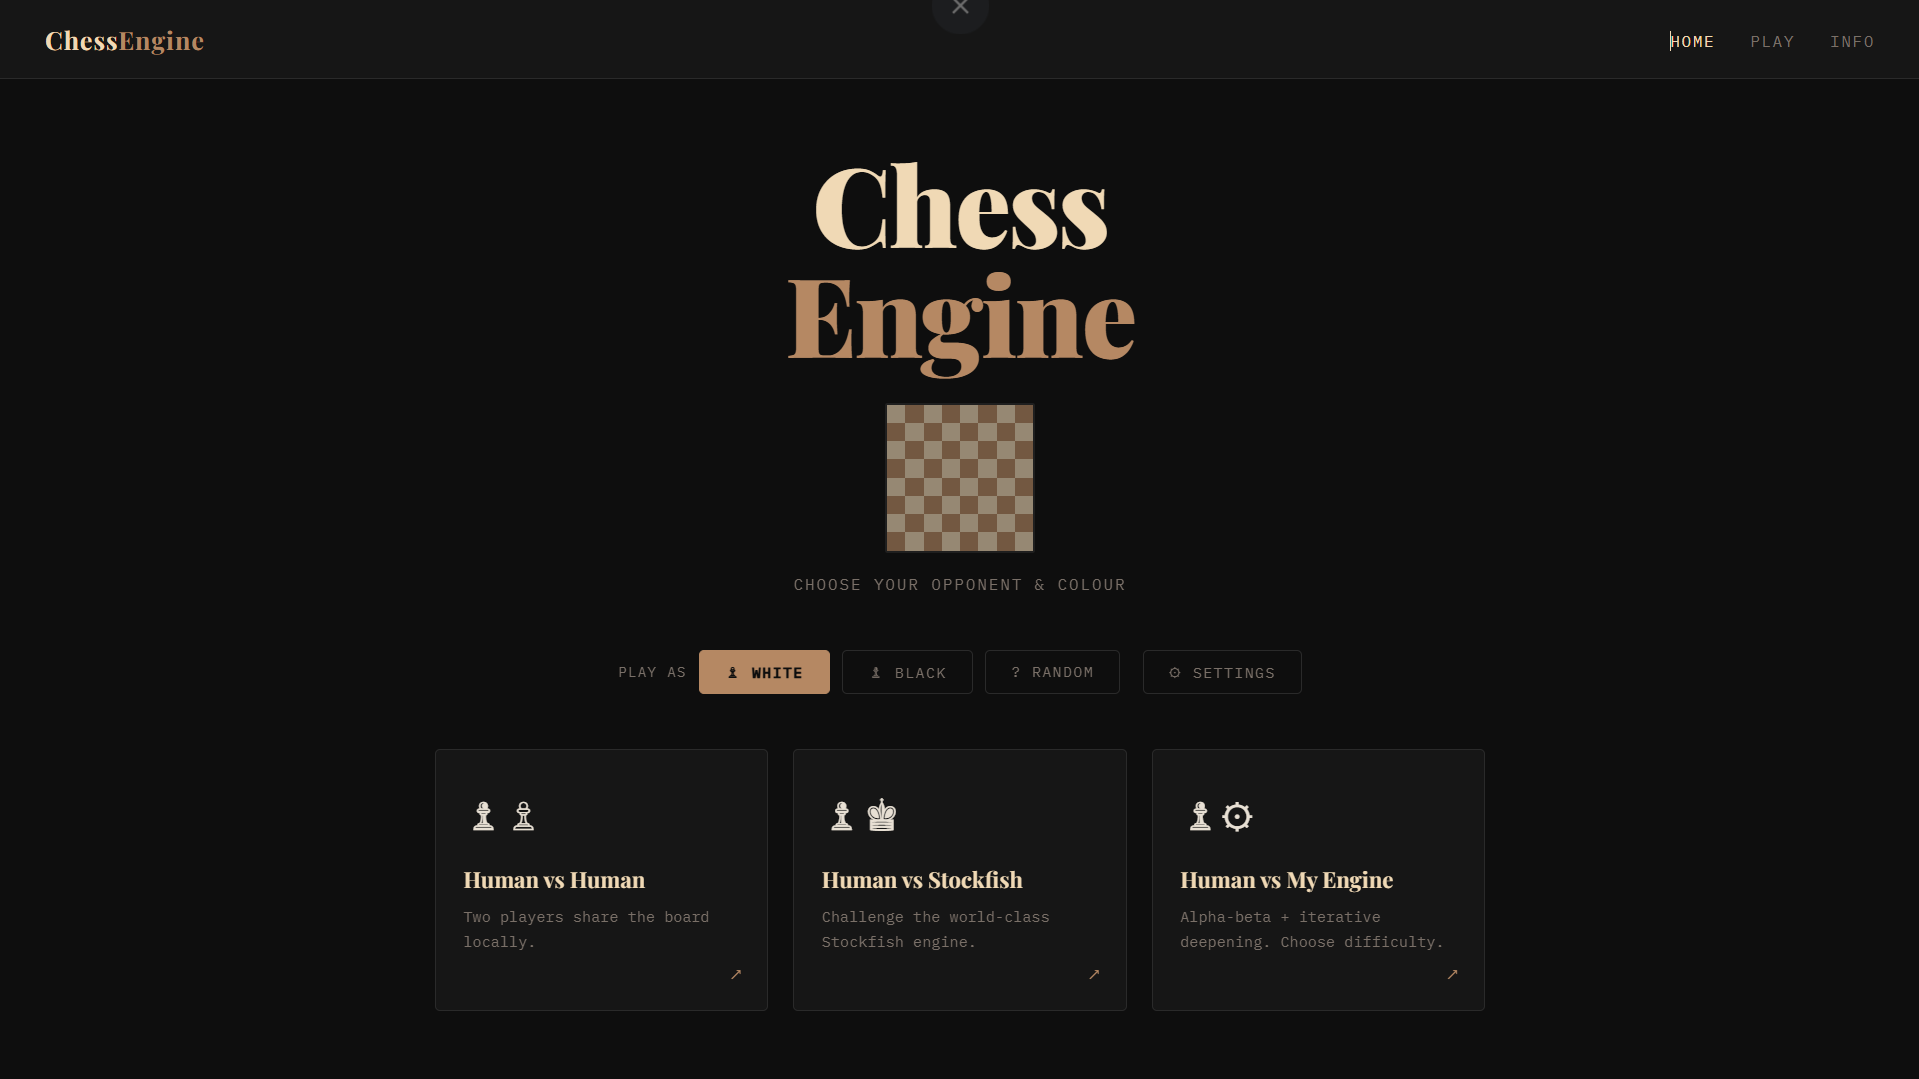
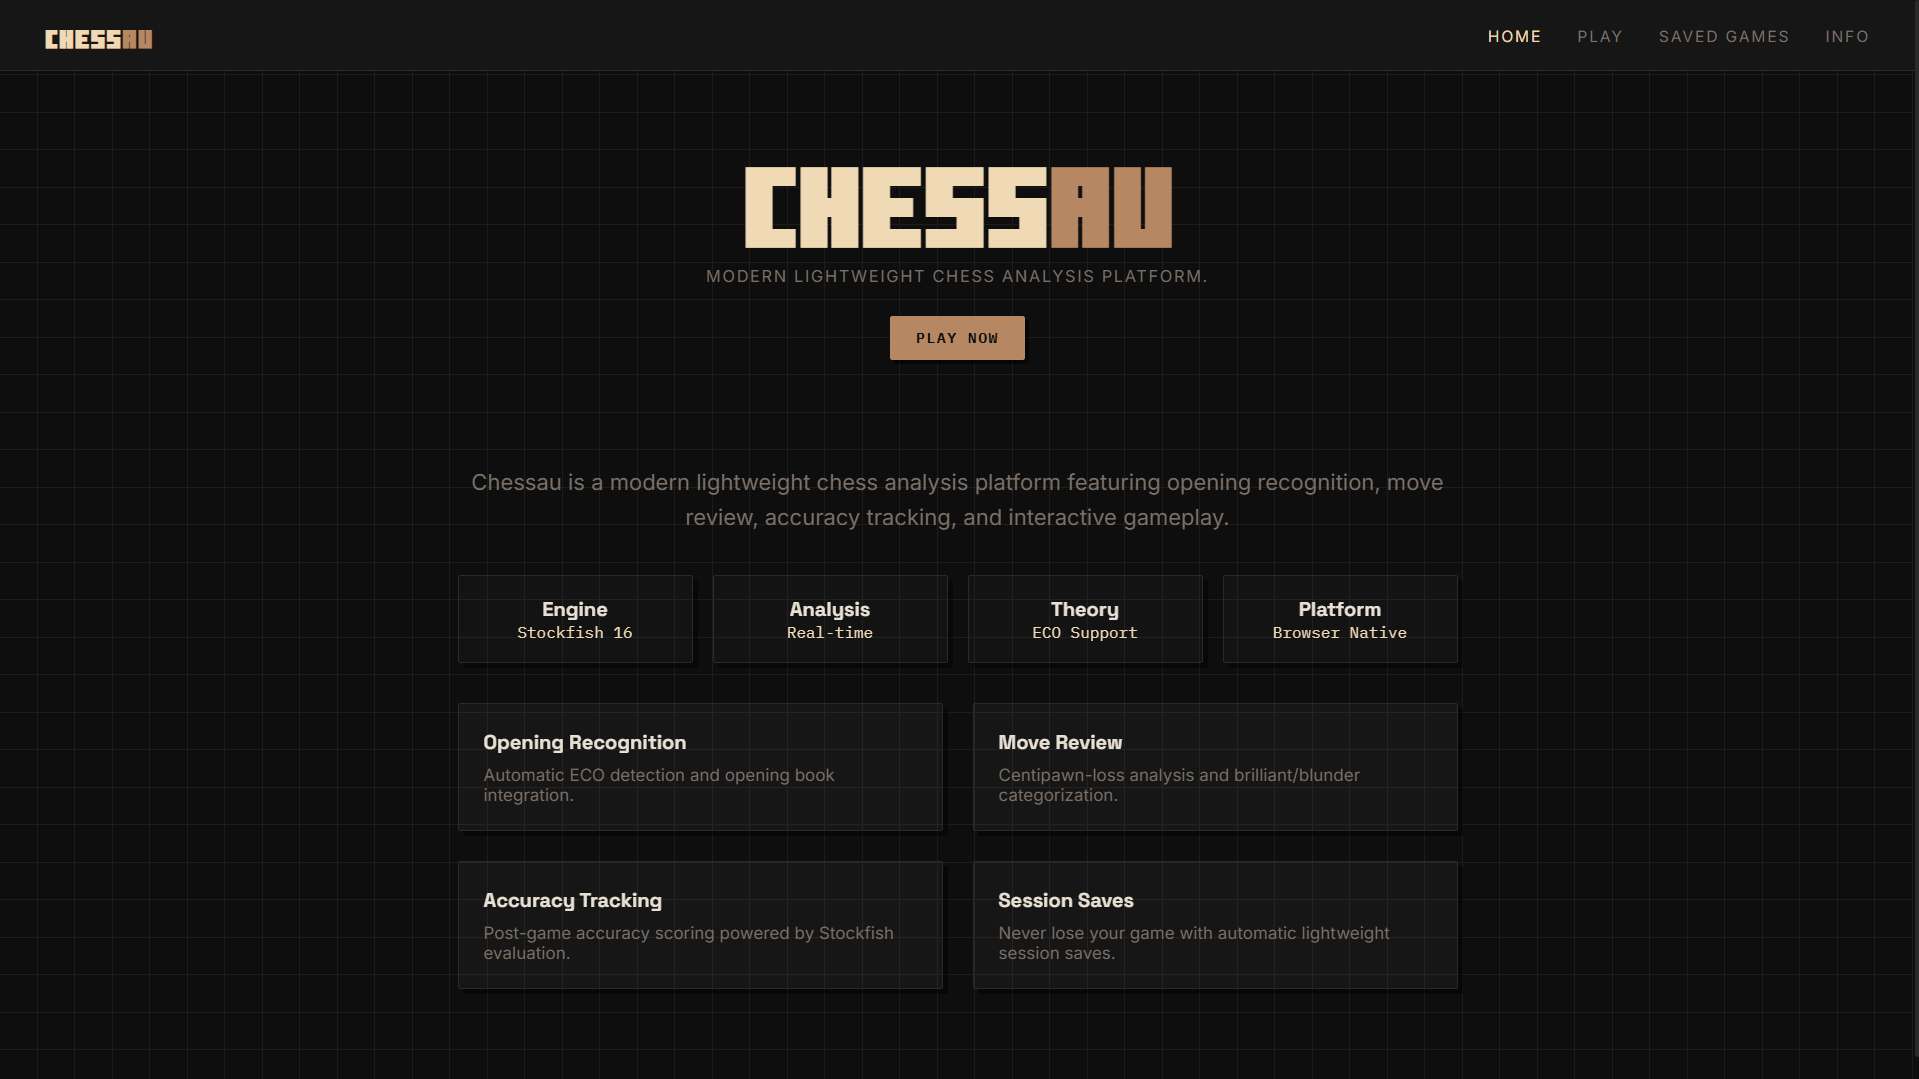
Finalize Chessau project and README presentation

diff --git a/README.md b/README.md
@@ -318,28 +318,41 @@ Chessau/
 
 # 📸 Screenshots
 
-## 🏠 Home Page
+🏠 Home Page
 
-Add screenshot here
+Modern voxel-inspired landing page with interactive grid background and responsive typography.
+![Home Page](screenshots/home.png)
 
----
+🎮 Play Hub
 
-## 🎮 Gameplay
+Centralized game-mode launcher for Human, Stockfish, and MyEngine gameplay modes.
+![Play Hub](screenshots/play.png)
 
-Add screenshot here
+♟️ Gameplay Interface
 
----
+Real-time gameplay with live evaluation bar, opening recognition, and analysis panels.
+![Chessau Gameplay](screenshots/game.png)
 
-## 📊 Move Review & Accuracy
+📊 Move Review & Accuracy
 
-Add screenshot here
+Stockfish-powered move classification and post-game accuracy analysis.
+![Move Review](screenshots/review.png)
 
----
+📖 Opening Recognition
 
-## 📖 Opening Recognition
+Automatic ECO opening recognition with opening-book integration and in-book tracking.
+![Opening Recognition](screenshots/opening.png)
 
-Add screenshot here
+💾 Saved Games
 
+Session-based save management with restore and deletion support.
+![Saved Games](screenshots/saves.png)
+
+ℹ️ Info / Architecture
+
+Project overview and architecture information page.
+![Info1 Page](screenshots/info1.png)
+![Info2 Page](screenshots/info2.png)
 ---
 
 # 🚀 Run Locally